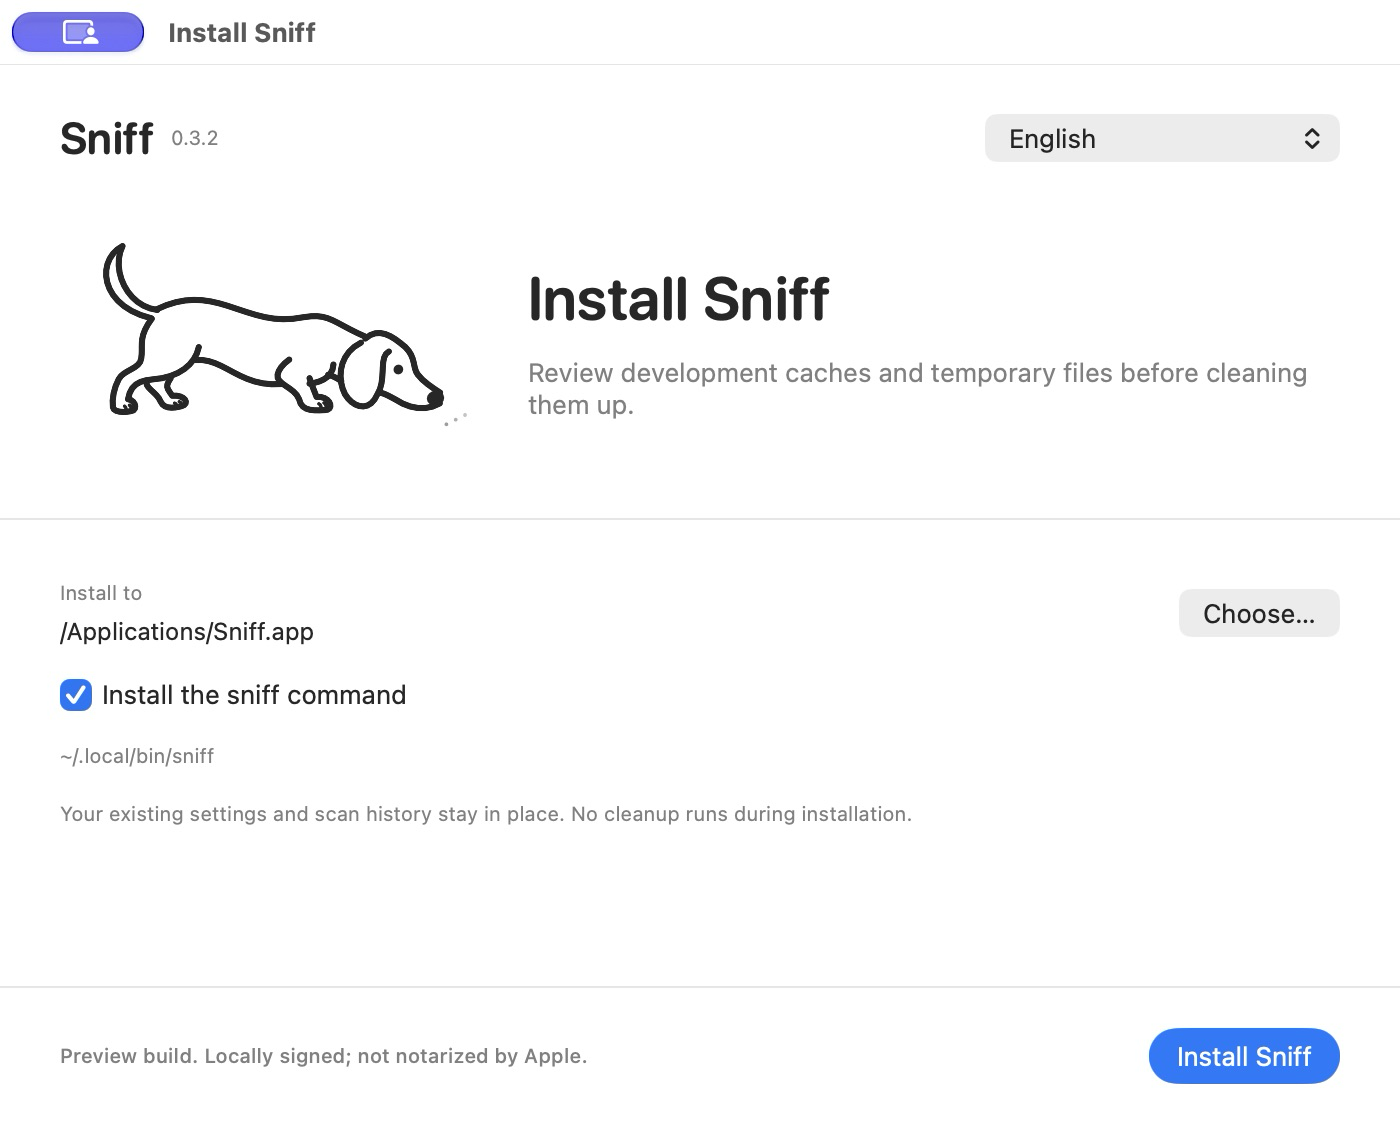
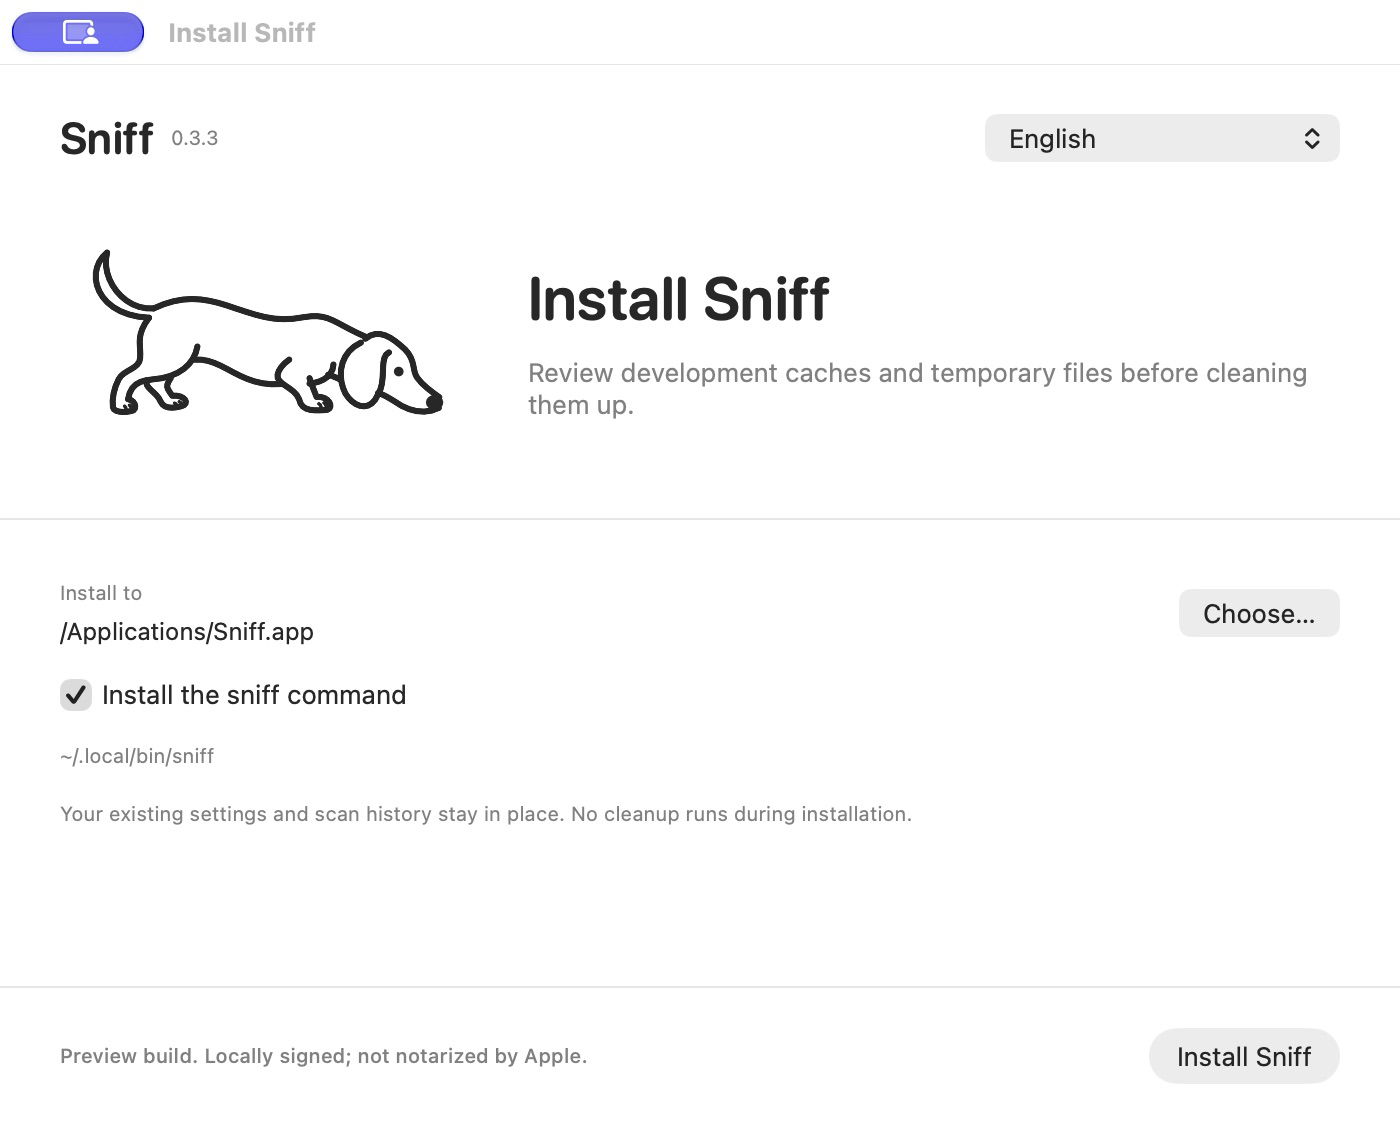
Give Sniff pauses, curious glances and loose follow-through

diff --git a/Sources/SniffIdentity/DogMotion.swift b/Sources/SniffIdentity/DogMotion.swift
@@ -1,43 +1,154 @@
 import Foundation
 
-/// A four-second cycle with matching position and velocity at the loop boundary.
 public struct DogPose: Sendable {
     public var headAngle: Double = 0
     public var earAngle: Double = 0
     public var tailAngle: Double = 0
+    public var tailBend: Double = 0
     public var rumpSway: Double = 0
     public var rumpLift: Double = 0
     public var headTurn: Double = 0
+    public var eyeLook: Double = 0
+    public var eyeOpen: Double = 1
+    public var curiosity: Double = 0
     public var scentOpacity: Double = 0
     public static let resting = DogPose()
 }
 
+/// Authored intentions and quiet beats, rather than one oscillator driving every joint.
 public enum DogMotion {
-    public static let duration = 4.0
-    public static func pose(at elapsed: TimeInterval, amount: Double = 1) -> DogPose {
-        let phase = elapsed.truncatingRemainder(dividingBy: duration) / duration
-        let turn = phase * 2 * Double.pi
-        func sniff(_ offset: Double) -> Double {
-            let start = offset, end = offset + 0.09
-            guard phase >= start, phase <= end else { return 0 }
-            return (1 - cos((phase - start) / (end - start) * 2 * .pi)) / 2
+    public static let duration = 12.0
+    private struct Key: Sendable { let time: Double; let value: Double }
+    private struct Sniff: Sendable { let start: Double; let length: Double; let strength: Double }
+    private struct Wag: Sendable {
+        let start: Double; let length: Double; let attack: Double; let release: Double
+        let frequency: Double; let acceleration: Double; let strength: Double; let hips: Double
+        func phase(_ time: Double) -> Double { 2 * .pi * (frequency * time + acceleration * time * time / 2) }
+        func envelope(_ time: Double) -> Double {
+            DogMotion.pulse(time, start: 0, attack: attack, hold: length - attack - release, release: release)
         }
-        let breath = (1 - cos(turn * 2)) / 2
-        let inhaling = sniff(0.13) + sniff(0.25) + sniff(0.55) + sniff(0.67)
-        let excitement = 0.82 + 0.18 * cos(turn * 2)
+        func wave(_ time: Double) -> Double {
+            let angle = phase(time)
+            return sin(angle) + 0.08 * sin(2 * angle + 0.6)
+        }
+    }
+    private static let head: [Key] = [
+        .init(time: 0, value: 0), .init(time: 0.5, value: -0.014),
+        .init(time: 1.9, value: -0.025), .init(time: 2.2, value: -0.025),
+        .init(time: 2.55, value: -0.145), .init(time: 2.9, value: -0.132),
+        .init(time: 3.5, value: -0.132), .init(time: 3.92, value: -0.018),
+        .init(time: 5.0, value: -0.022), .init(time: 6.35, value: -0.012),
+        .init(time: 6.72, value: -0.065), .init(time: 7.03, value: -0.025),
+        .init(time: 8.0, value: -0.02), .init(time: 8.65, value: -0.035),
+        .init(time: 9.4, value: -0.008), .init(time: 10.5, value: -0.008),
+        .init(time: 11.0, value: 0), .init(time: 12, value: 0)
+    ]
+    private static let search: [Key] = [
+        .init(time: 0, value: 0), .init(time: 0.65, value: -0.38),
+        .init(time: 0.9, value: -0.38), .init(time: 1.6, value: 0.63),
+        .init(time: 1.95, value: 0.63), .init(time: 2.4, value: -0.48),
+        .init(time: 3.45, value: -0.48), .init(time: 3.95, value: -0.08),
+        .init(time: 5.12, value: 0.65), .init(time: 5.45, value: 0.65),
+        .init(time: 6.15, value: -0.72), .init(time: 6.6, value: -0.72),
+        .init(time: 7.2, value: 0.4), .init(time: 7.75, value: 0.4),
+        .init(time: 8.6, value: -0.25), .init(time: 9.6, value: 0.1),
+        .init(time: 10.45, value: 0.1), .init(time: 11.0, value: 0), .init(time: 12, value: 0)
+    ]
+    private static let gaze: [Key] = [
+        .init(time: 0, value: 0), .init(time: 2.35, value: 0),
+        .init(time: 2.55, value: -0.9), .init(time: 2.78, value: -0.9),
+        .init(time: 3.0, value: 0.45), .init(time: 3.45, value: 0.45),
+        .init(time: 3.85, value: 0), .init(time: 6.65, value: 0),
+        .init(time: 6.85, value: 0.65), .init(time: 7.2, value: 0), .init(time: 12, value: 0)
+    ]
+    private static let sniffs: [Sniff] = [
+        .init(start: 0.68, length: 0.21, strength: 0.032),
+        .init(start: 1.12, length: 0.25, strength: 0.05),
+        .init(start: 1.53, length: 0.17, strength: 0.035),
+        .init(start: 4.18, length: 0.17, strength: 0.042),
+        .init(start: 4.5, length: 0.22, strength: 0.035),
+        .init(start: 5.85, length: 0.28, strength: 0.045),
+        .init(start: 6.22, length: 0.19, strength: 0.03),
+        .init(start: 7.1, length: 0.16, strength: 0.05),
+        .init(start: 7.38, length: 0.23, strength: 0.045),
+        .init(start: 8.48, length: 0.25, strength: 0.023)
+    ]
+    private static let wags: [Wag] = [
+        .init(start: 0.35, length: 1.55, attack: 0.24, release: 0.4, frequency: 1.3, acceleration: 0.35, strength: 0.12, hips: 0.6),
+        .init(start: 3.55, length: 2.05, attack: 0.18, release: 0.55, frequency: 2.0, acceleration: 0.42, strength: 0.31, hips: 2.35),
+        .init(start: 7.1, length: 1.82, attack: 0.16, release: 0.5, frequency: 2.9, acceleration: -0.65, strength: 0.28, hips: 1.9),
+        .init(start: 10.35, length: 0.65, attack: 0.12, release: 0.28, frequency: 1.4, acceleration: -0.4, strength: 0.08, hips: 0.25)
+    ]
+
+    public static func pose(at elapsed: TimeInterval, amount: Double = 1) -> DogPose {
+        let amount = min(1, max(0, amount))
+        guard amount > 0 else { return .resting }
+        let time = max(0, elapsed).truncatingRemainder(dividingBy: duration)
+        let inhale = sniff(at: time)
+        let angle = headAngle(at: time)
+        let turn = track(search, at: time)
         var pose = DogPose()
-        // Lift the low muzzle slightly on each breath, then settle back to the ground.
-        pose.headAngle = -(0.018 * breath + 0.065 * inhaling) * amount
-        // A loose ear follows the head with a small delay instead of moving in lockstep.
-        pose.earAngle = (sin(turn * 4 - 0.5) * 0.025 * breath + 0.025 * inhaling) * amount
-        // Tail rotates at its base; the tip never stretches or detaches.
-        pose.tailAngle = sin(turn * 8) * 0.30 * excitement * amount
-        // The hips rock once for every two wags. Knees flex while paws stay planted.
-        pose.rumpSway = sin(turn * 4) * 2.6 * excitement * amount
-        pose.rumpLift = sin(turn * 8) * 0.65 * excitement * amount
-        // A slower sweep searches for the scent between the quick paired sniffs.
-        pose.headTurn = sin(turn * 2) * amount
-        pose.scentOpacity = (0.12 + 0.43 * inhaling) * amount
+        pose.headAngle = angle * amount
+        pose.headTurn = turn * amount
+        // The loose ear trails changes of direction and settles after the head stops.
+        pose.earAngle = ((headAngle(at: time - 0.11) - angle) * 0.9
+                        + (track(search, at: time - 0.14) - turn) * 0.025) * amount
+        for wag in wags {
+            let local = time - wag.start
+            let envelope = wag.envelope(local)
+            pose.tailAngle += wag.wave(local) * envelope * wag.strength * amount
+            // A flexible tip and hips carry on briefly after the tail changes direction.
+            pose.tailBend += (sin(wag.phase(local - 0.065)) - sin(wag.phase(local)))
+                            * wag.envelope(local - 0.035) * 2.2 * amount
+            let following = local - 0.1
+            let hipPhase = wag.phase(following) / 2 - 0.18
+            let hipEnvelope = wag.envelope(following)
+            pose.rumpSway += (sin(hipPhase) + 0.1 * sin(hipPhase * 2)) * hipEnvelope * wag.hips * amount
+            pose.rumpLift -= pow(sin(hipPhase), 2) * hipEnvelope * 0.45 * amount
+        }
+        pose.eyeLook = track(gaze, at: time) * amount
+        pose.curiosity = pulse(time, start: 2.25, attack: 0.3, hold: 0.85, release: 0.4) * amount
+        let blink = [2.9, 3.25, 6.95, 10.2].map {
+            pulse(time, start: $0, attack: 0.035, hold: 0.025, release: 0.085)
+        }.max() ?? 0
+        pose.eyeOpen = 1 - blink * amount
+        pose.scentOpacity = min(1, inhale / 0.05) * 0.6 * amount
         return pose
+    }
+
+    private static func headAngle(at time: Double) -> Double { track(head, at: time) - sniff(at: time) }
+    private static func sniff(at time: Double) -> Double {
+        sniffs.reduce(0) { sum, sniff in
+            sum + sniff.strength * pulse(time, start: sniff.start, attack: sniff.length * 0.28,
+                                         hold: 0, release: sniff.length * 0.72)
+        }
+    }
+    private static func track(_ keys: [Key], at time: Double) -> Double {
+        guard time > keys[0].time else { return keys[0].value }
+        for index in 1..<keys.count where time < keys[index].time {
+            let before = keys[index - 1], after = keys[index]
+            return before.value + (after.value - before.value) * ease((time - before.time) / (after.time - before.time))
+        }
+        return keys.last!.value
+    }
+    private static func pulse(_ time: Double, start: Double, attack: Double, hold: Double, release: Double) -> Double {
+        let local = time - start
+        guard local > 0, local < attack + hold + release else { return 0 }
+        if local < attack { return ease(local / attack) }
+        if local < attack + hold { return 1 }
+        return 1 - ease((local - attack - hold) / release)
+    }
+    // Shared ease-in-out: cubic-bezier(0.77, 0, 0.175, 1).
+    private static func ease(_ progress: Double) -> Double {
+        guard progress > 0 else { return 0 }
+        guard progress < 1 else { return 1 }
+        var low = 0.0, high = 1.0
+        for _ in 0..<16 {
+            let t = (low + high) / 2, inverse = 1 - t
+            let x = 3 * inverse * inverse * t * 0.77 + 3 * inverse * t * t * 0.175 + t * t * t
+            if x < progress { low = t } else { high = t }
+        }
+        let t = (low + high) / 2
+        return 3 * (1 - t) * t * t + t * t * t
     }
 }

diff --git a/Tests/SniffMotionTests/DogMotionTests.swift b/Tests/SniffMotionTests/DogMotionTests.swift
@@ -9,7 +9,7 @@ import SniffIdentity
     let start = DogMotion.pose(at: 0)
     let end = DogMotion.pose(at: DogMotion.duration)
     let after = DogMotion.pose(at: step)
-    let channels: [KeyPath<DogPose, Double>] = [\.headAngle, \.tailAngle, \.earAngle, \.rumpSway, \.rumpLift, \.headTurn, \.scentOpacity]
+    let channels: [KeyPath<DogPose, Double>] = [\.headAngle, \.tailAngle, \.tailBend, \.earAngle, \.rumpSway, \.rumpLift, \.headTurn, \.eyeLook, \.eyeOpen, \.curiosity, \.scentOpacity]
     for channel in channels {
         #expect(abs(start[keyPath: channel] - end[keyPath: channel]) < 0.000001)
         let enteringVelocity = (start[keyPath: channel] - before[keyPath: channel]) / step
@@ -19,17 +19,18 @@ import SniffIdentity
 }
 
 @Test func motionStaysSmallAndReducedMotionRemainsStill() {
-    for frame in 0..<240 {
+    for frame in 0..<Int(DogMotion.duration * 60) {
         let time = Double(frame) / 60
         let pose = DogMotion.pose(at: time)
-        #expect(pose.headAngle >= -0.084 && pose.headAngle <= 0)
-        #expect(abs(pose.tailAngle) <= 0.301)
-        #expect(abs(pose.earAngle) <= 0.051)
-        #expect(abs(pose.rumpSway) <= 2.601 && abs(pose.rumpLift) <= 0.651)
+        #expect(pose.headAngle >= -0.16 && pose.headAngle <= 0)
+        #expect(abs(pose.tailAngle) <= 0.36 && abs(pose.tailBend) <= 3.5)
+        #expect(abs(pose.earAngle) <= 0.15)
+        #expect(abs(pose.rumpSway) <= 2.8 && abs(pose.rumpLift) <= 0.5)
         #expect(abs(pose.headTurn) <= 1)
         let still = DogMotion.pose(at: time, amount: 0)
         #expect(still.headAngle == 0 && still.tailAngle == 0 && still.earAngle == 0 && still.scentOpacity == 0)
         #expect(still.rumpSway == 0 && still.rumpLift == 0 && still.headTurn == 0)
+        #expect(still.tailBend == 0 && still.eyeLook == 0 && still.eyeOpen == 1 && still.curiosity == 0)
     }
 }
 
@@ -37,7 +38,7 @@ import SniffIdentity
     for compact in [false, true] {
         let width = compact ? 60 : 180, height = compact ? 36 : 110
         var plantedPaws: [UInt8]?
-        for frame in 0..<120 {
+        for frame in 0..<Int(DogMotion.duration * 30) {
             var pixels = [UInt8](repeating: 0, count: width * height * 4)
             pixels.withUnsafeMutableBytes { bytes in
                 let context = CGContext(data: bytes.baseAddress, width: width, height: height,
@@ -67,4 +68,14 @@ import SniffIdentity
             }
         }
     }
+}
+
+@Test func actingHasQuietBeatsAndBriefExpressions() {
+    let poses = (0..<Int(DogMotion.duration * 60)).map { DogMotion.pose(at: Double($0) / 60) }
+    let quiet = poses.filter { abs($0.tailAngle) < 0.005 && abs($0.rumpSway) < 0.05 }
+    let lively = poses.filter { abs($0.tailAngle) > 0.1 && abs($0.rumpSway) > 0.2 }
+    #expect(quiet.count > poses.count / 4)
+    #expect(lively.count > 50)
+    #expect(poses.filter { $0.eyeOpen < 0.15 }.count >= 4)
+    #expect(poses.filter { $0.curiosity > 0.8 && abs($0.tailAngle) < 0.005 }.count > 20)
 }

diff --git a/Sources/SniffIdentity/DogDrawing.swift b/Sources/SniffIdentity/DogDrawing.swift
@@ -5,7 +5,7 @@ import Foundation
 public enum DogDrawing {
     public static func draw(in context: CGContext, size: CGSize, pose: DogPose = .resting,
                             ink: CGColor, lineWidth: CGFloat = 2.65, compact: Bool = false) {
-        let bounds = compact ? CGRect(x: 0, y: 4, width: 174, height: 94) : CGRect(x: 0, y: 0, width: 180, height: 110)
+        let bounds = compact ? CGRect(x: -4, y: 0, width: 182, height: 100) : CGRect(x: 0, y: 0, width: 180, height: 110)
         let scale = min(size.width / bounds.width, size.height / bounds.height)
         context.saveGState()
         context.translateBy(x: (size.width - bounds.width * scale) / 2, y: (size.height - bounds.height * scale) / 2)
@@ -40,10 +40,15 @@ public enum DogDrawing {
         context.saveGState()
         context.translateBy(x: hipX, y: hipY)
         rotate(pose.tailAngle, around: CGPoint(x: 39, y: 43))
+        func tailPoint(_ x: CGFloat, _ y: CGFloat) -> CGPoint {
+            let weight = pow(max(0, (43 - y) / 26), 2)
+            return CGPoint(x: x + CGFloat(pose.tailBend) * weight,
+                           y: y + CGFloat(abs(pose.tailBend)) * weight * 0.1)
+        }
         stroke {
-            move(40, 41)
-            curve(27, 42, 17, 28, 20, 17)
-            curve(10, 25, 15, 44, 38, 45)
+            context.move(to: tailPoint(40, 41))
+            context.addCurve(to: tailPoint(20, 17), control1: tailPoint(27, 42), control2: tailPoint(17, 28))
+            context.addCurve(to: tailPoint(38, 45), control1: tailPoint(10, 25), control2: tailPoint(15, 44))
         }
         context.restoreGState()
 
@@ -127,7 +132,21 @@ public enum DogDrawing {
         }
         context.restoreGState()
         context.fillEllipse(in: CGRect(x: 156.5, y: 78.4, width: 7.5, height: 6.5))
-        context.fillEllipse(in: CGRect(x: 142.9 + CGFloat(pose.headTurn) * 0.75, y: 66.15, width: 4.2, height: 4.2))
+        let eyeX = 142.9 + CGFloat(pose.headTurn) * 0.75 + CGFloat(pose.eyeLook) * 0.9
+        let eyeHeight = CGFloat(max(0, min(1, pose.eyeOpen))) * 4.2
+        if eyeHeight > 1 {
+            context.fillEllipse(in: CGRect(x: eyeX, y: 68.25 - eyeHeight / 2, width: 4.2, height: eyeHeight))
+        } else {
+            context.saveGState(); context.setLineWidth(1.5)
+            stroke { move(eyeX - 0.2, 68.25); curve(eyeX + 1, 68.8, eyeX + 3.2, 68.8, eyeX + 4.4, 68.25) }
+            context.restoreGState()
+        }
+        if !compact, pose.curiosity > 0 {
+            context.saveGState(); context.setAlpha(pose.curiosity * 0.8); context.setLineWidth(1.1)
+            let lift = CGFloat(pose.curiosity) * 0.8
+            stroke { move(eyeX - 1, 63.5 - lift); curve(eyeX + 1, 61.9 - lift, eyeX + 3.5, 62.1 - lift, eyeX + 5, 63.2 - lift) }
+            context.restoreGState()
+        }
         context.restoreGState()
 
         if !compact, pose.scentOpacity > 0 {

diff --git a/Sources/SniffCore/Support/ProductInfo.swift b/Sources/SniffCore/Support/ProductInfo.swift
@@ -1,4 +1,4 @@
 public enum ProductInfo {
-    public static let version = "0.3.2"
+    public static let version = "0.3.3"
     public static let bundleIdentifier = "app.sniff.mac"
 }

diff --git a/script/package_app.py b/script/package_app.py
@@ -52,7 +52,7 @@ def bundle(path, executable, identifier, display_name):
     info = {
         'CFBundleExecutable': executable, 'CFBundleIdentifier': identifier, 'CFBundleName': display_name,
         'CFBundleDisplayName': display_name, 'CFBundlePackageType': 'APPL',
-        'CFBundleShortVersionString': version, 'CFBundleVersion': '6', 'CFBundleIconFile': 'Sniff',
+        'CFBundleShortVersionString': version, 'CFBundleVersion': '7', 'CFBundleIconFile': 'Sniff',
         'CFBundleDevelopmentRegion': 'en', 'CFBundleLocalizations': ['en', 'pt', 'es'],
         'LSMinimumSystemVersion': '14.0', 'NSPrincipalClass': 'NSApplication',
         'NSHighResolutionCapable': True, 'NSSupportsAutomaticTermination': False,

diff --git a/README.md b/README.md
@@ -43,7 +43,9 @@ sniff clean --plan ./cleanup-plan.json
 
 The app, CLI and installer support English, Portuguese and Spanish. Choose a language in Settings → General → Language. App text changes immediately; some macOS menu actions need an app restart.
 
-Sniff's mascot is a hand-drawn dachshund, with a long body, short legs and a drooping ear. In the menu bar, it sniffs and wags its tail during a scan or cleanup. Its hips sway with the wag, and its head sweeps from side to side as it sniffs. It stays still when idle. The installer uses the same artwork, and Reduce Motion keeps the dog still.
+Sniff's mascot is a hand-drawn dachshund. It follows a scent with short sniffs, pauses for a curious glance, then wags its tail in little bursts. Its hips and loose ear follow the movement.
+
+The dog animates during scans and cleanup and stays still when idle. The installer shares the same artwork. Reduce Motion keeps the dog still.
 
 <img src="Resources/mascot-preview.gif" width="360" alt="Sniff sniffing and wagging its tail">
 
